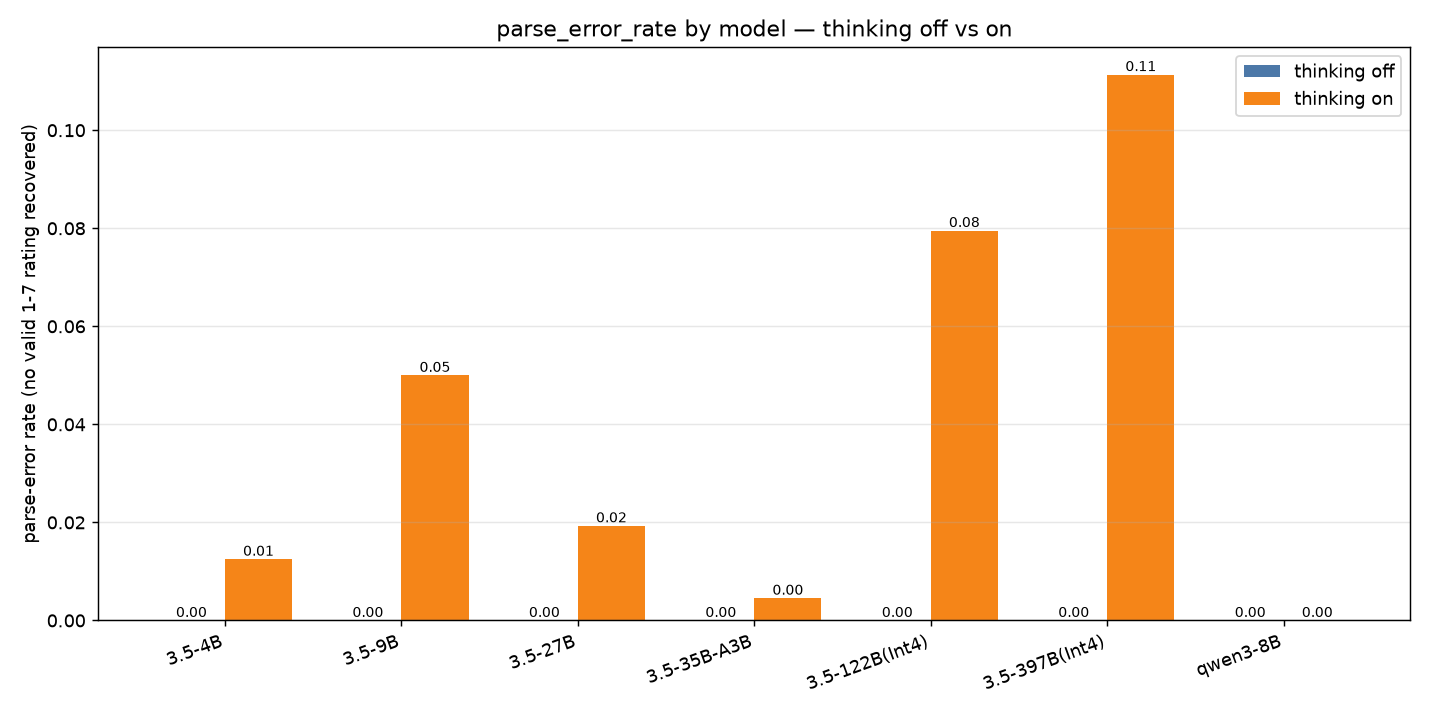
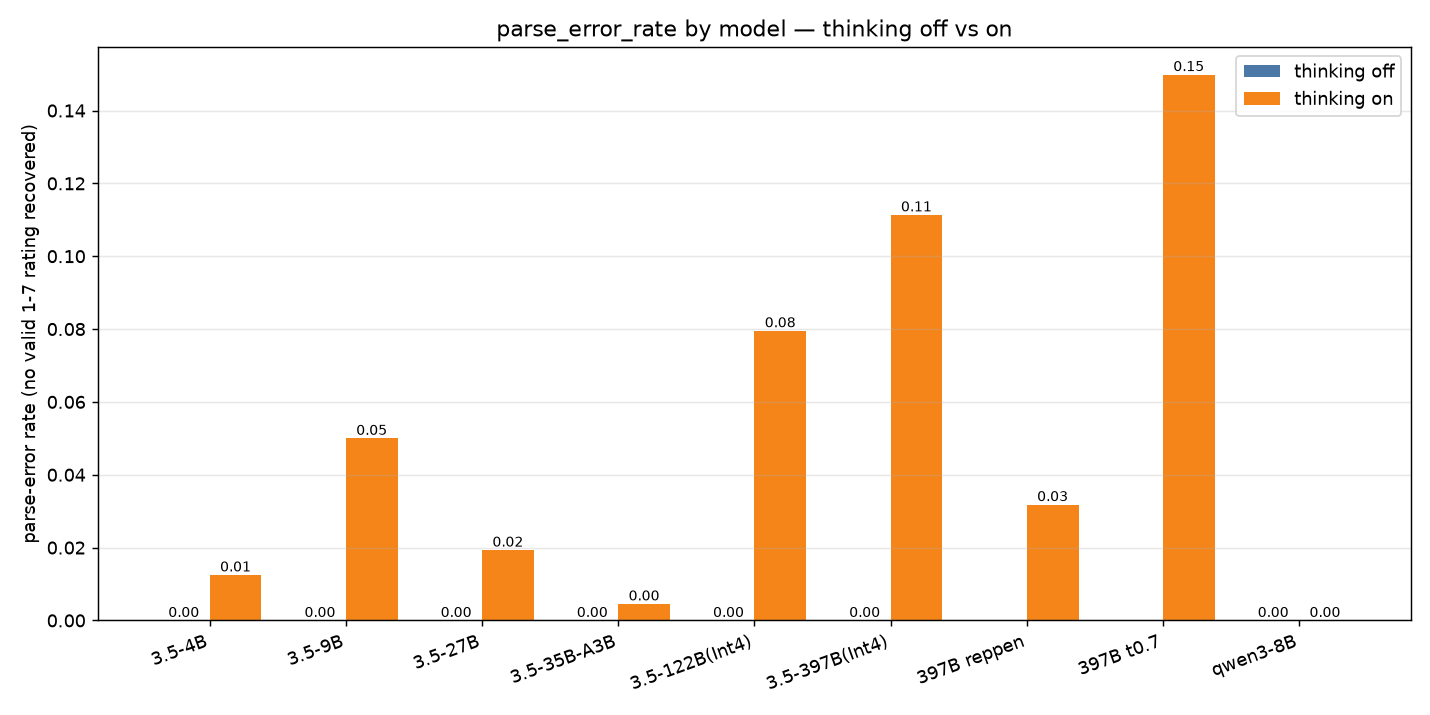
CLAUDE.md sync-workflow wording (user edit); gitignore .DS_Store; refresh variant bar plots

diff --git a/CLAUDE.md b/CLAUDE.md
@@ -6,7 +6,7 @@ Additinal context is in `turing-rl/Adversarial-User-Simulation.md`
 ## Where you are
 - **Mac working copy.** Edit code, write specs/plans, implement changes. No GPUs, no Slurm locally.
 - Cluster checkout at `/storage/home/lancewicki/projects/turing-rl` on V3 AWS (8× A100-40GB per node) runs everything.
-- Sync CODE via git: commit + push to `mine/lancewicki/main` (fork: `tallance/turing-rl`); the cluster checkout pulls.
+- Sync CODE with `scripts/sync_to_cluster.sh`: it ships the committed HEAD to the cluster over the tunnel (`git archive | tar`) and stamps `DEPLOYED_SHA`. `git push` to the fork (`tallance/turing-rl`) is optional backup/history; the cluster does NOT `git pull`.
 - **Run cluster commands directly** over the SSH tunnel (see below) — no relay agent needed.
 
 ## Workflow
